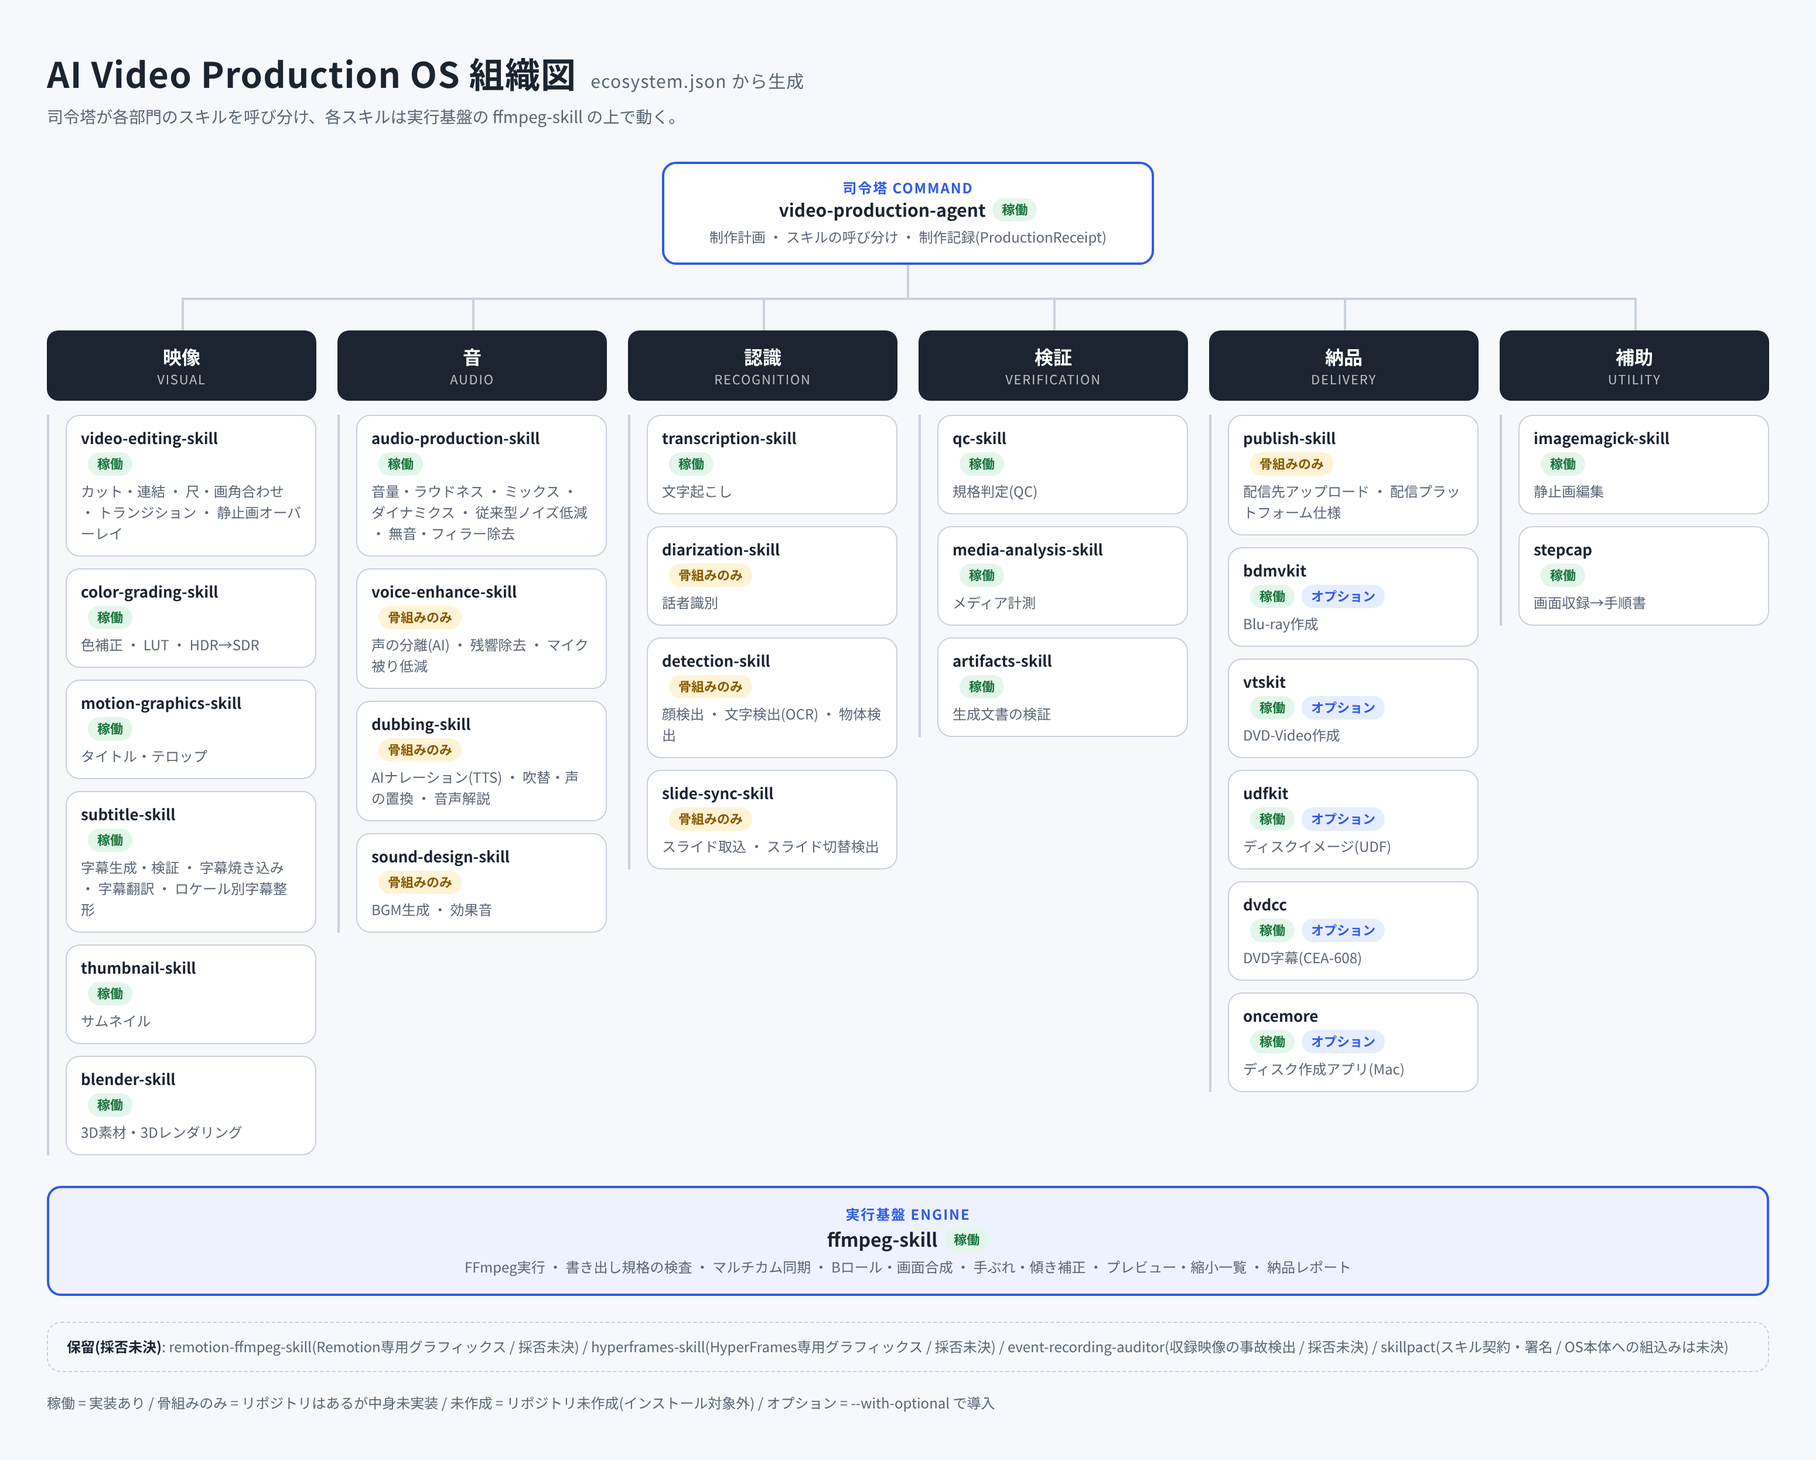
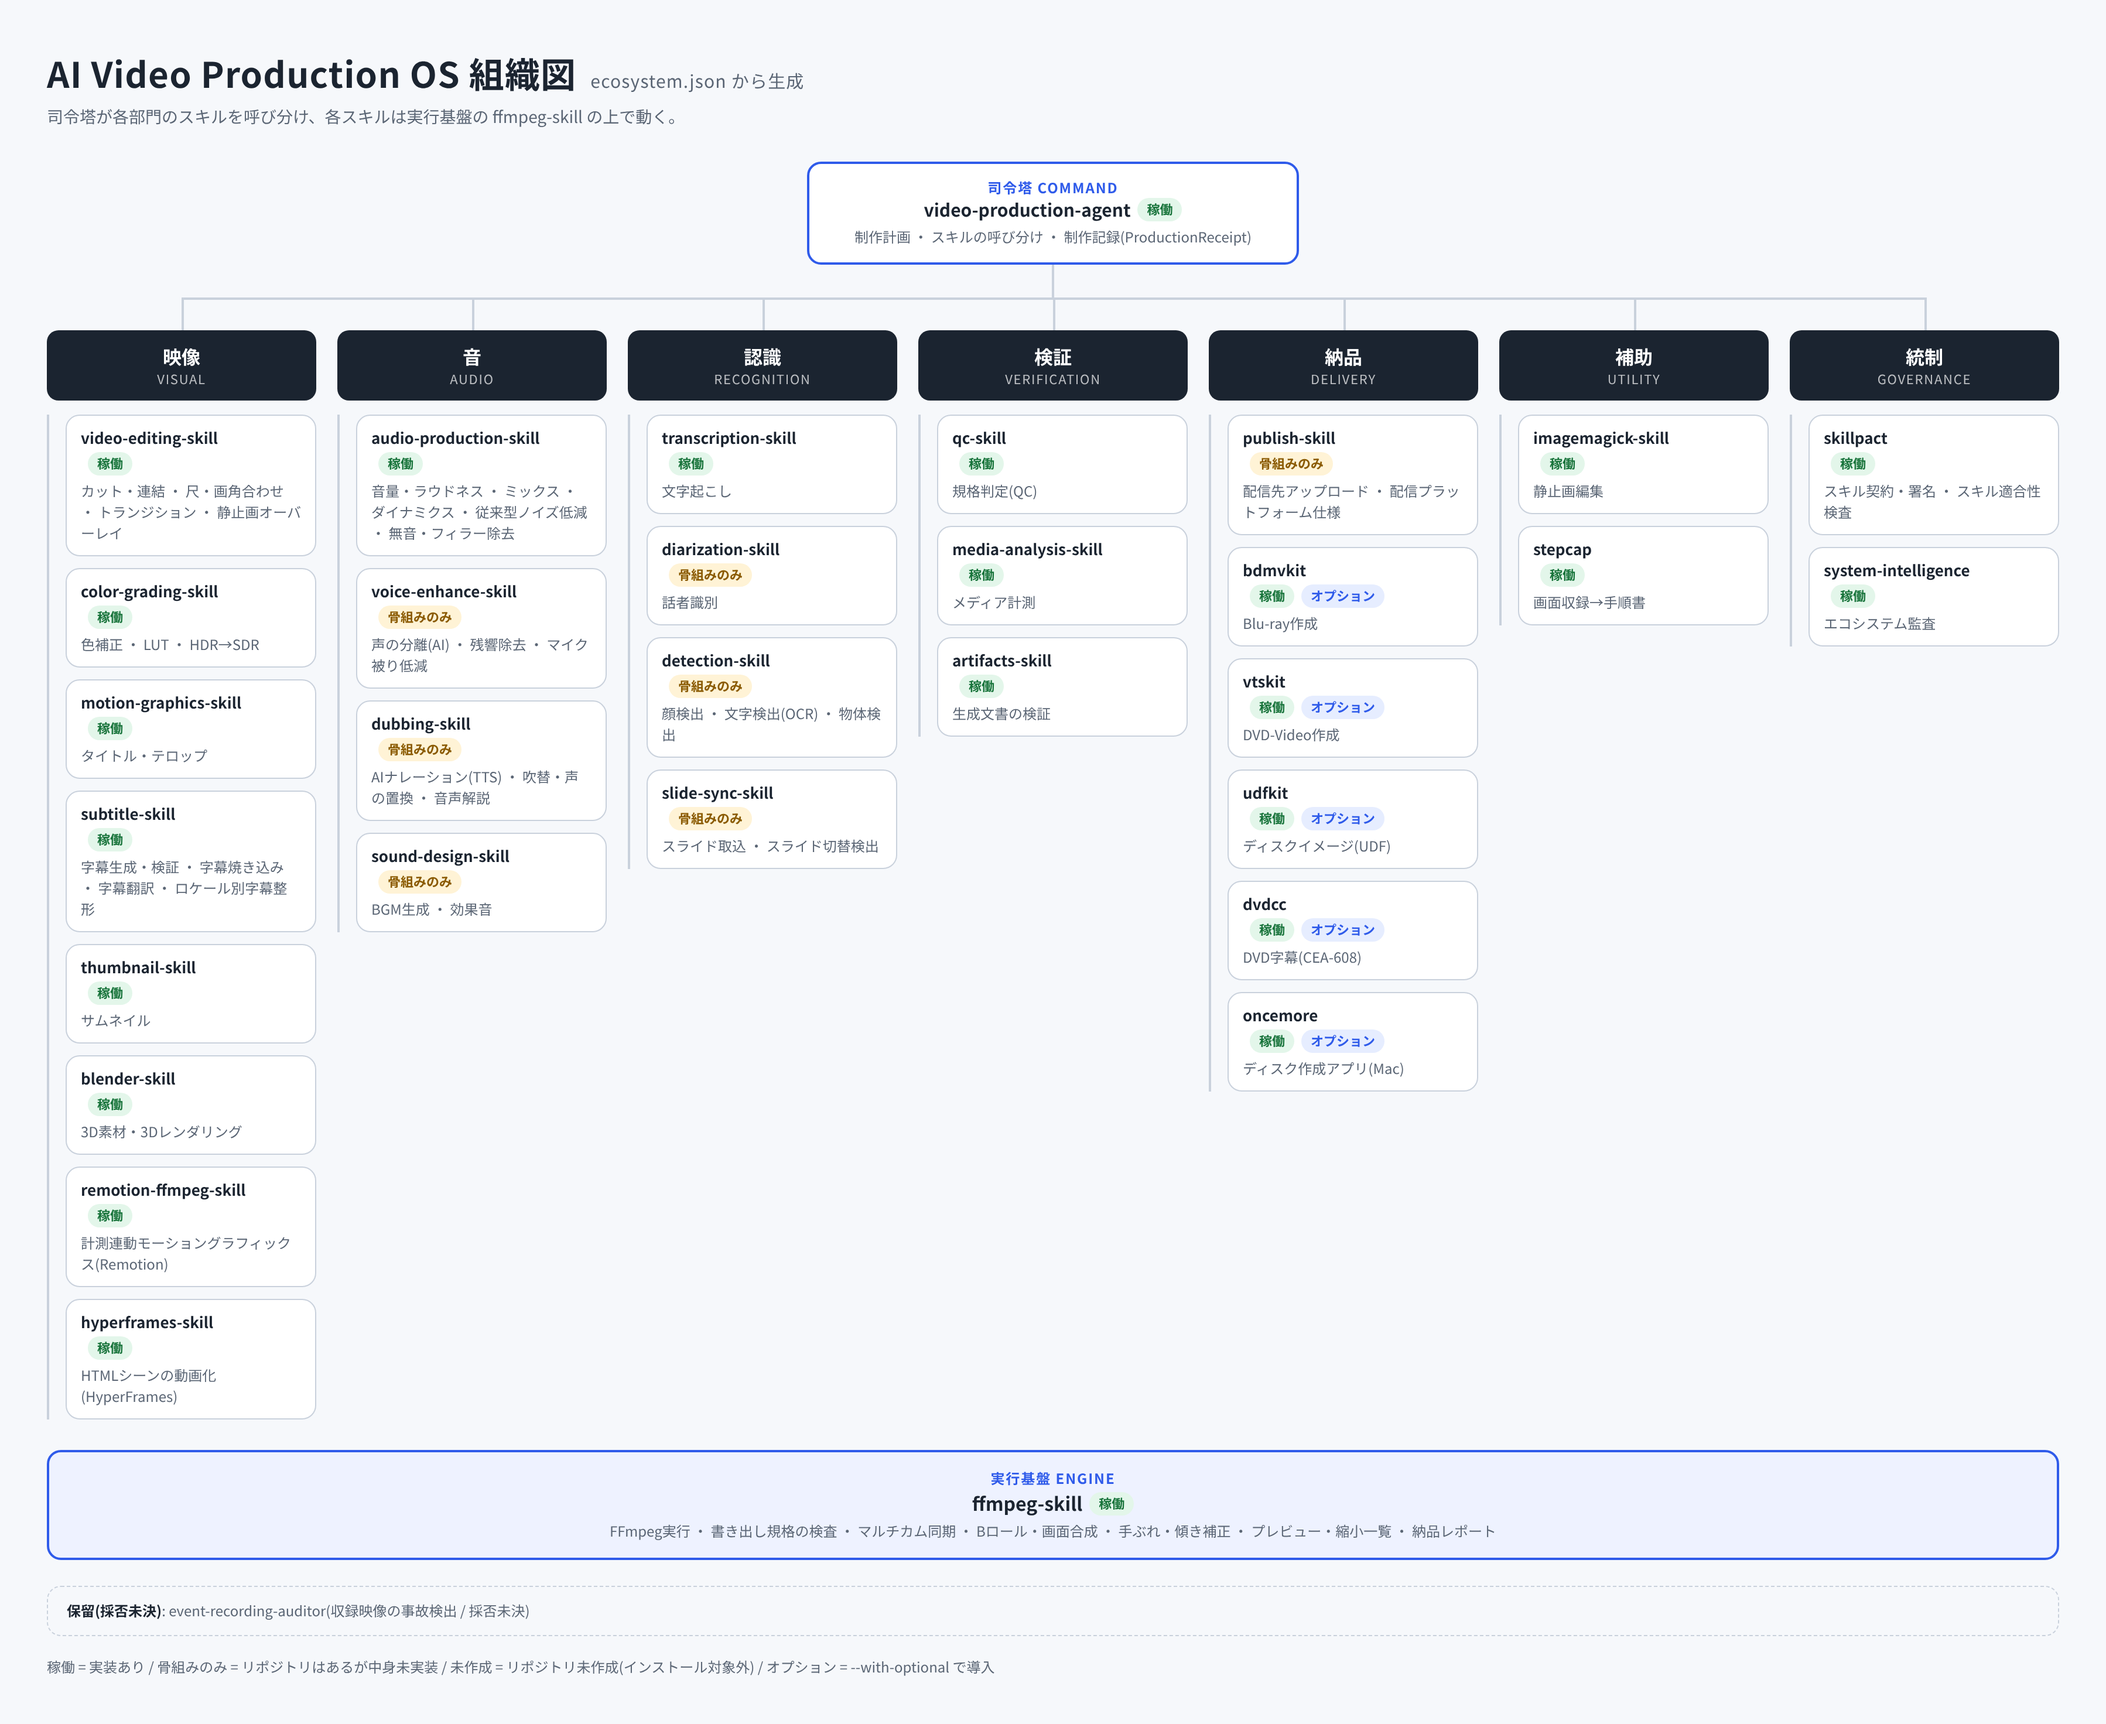
feat: add remotion/hyperframes skills, skillpact and system-intelligence (Governance)
remotion-ffmpeg-skill and hyperframes-skill join the Visual department, each owning its own
engine's graphics next to motion-graphics-skill's template titles. A new Governance department
holds skillpact (skill contracts, signing, conformance; its package is in ref/) and
system-intelligence (read-only ecosystem audit). The installer gains install="npm" (npm ci,
reported when Node.js is missing) and a "path" for packages in a subdirectory.

The dashboard workflow now runs `si diagnose` on this repository and passes the snapshot to
the Control Room, whose System Intelligence adapter existed but was never fed; a failure
there never blocks the deploy. The install CI job sets up Node 22 for hyperframes-skill.

Claude-Session: https://claude.ai/code/session_01TdkXAJ5yMz9qKodK2f5S7i

diff --git a/scripts/tests/test_ecosystem_manifest.py b/scripts/tests/test_ecosystem_manifest.py
@@ -31,7 +31,7 @@ class ManifestTests(unittest.TestCase):
         departments = {d["id"] for d in MANIFEST["departments"]}
         for c in MANIFEST["components"]:
             with self.subTest(repo=c["repo"]):
-                self.assertIn(c["install"], {"pip", "checkout"})
+                self.assertIn(c["install"], {"pip", "npm", "checkout"})
                 self.assertIn(c["department"], departments)
                 self.assertIn(c["status"], {"active", "scaffold", "planned"})
                 self.assertTrue(c["role"].strip())
